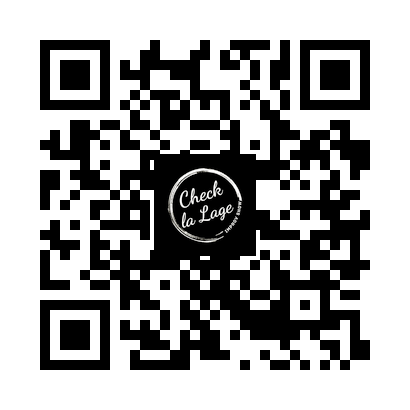
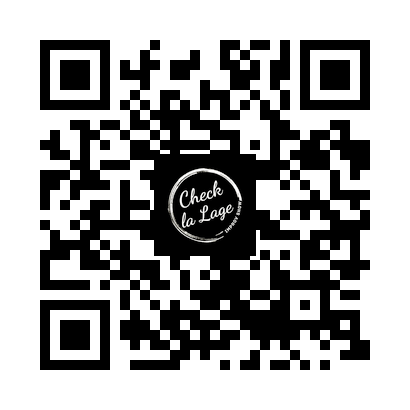
QR poster update

diff --git a/qr/p/index.html b/qr/p/index.html
@@ -1,0 +1,24 @@
+<!DOCTYPE html>
+<html lang="en">
+<head>
+<meta charset="UTF-8" />
+<meta name="viewport" content="width=device-width, initial-scale=1.0"/>
+<title>Check la Lage</title>
+<script>
+  var DESTINATION = "https://checklaimpro.de/";
+  var LOGGER_URL = "https://script.google.com/macros/s/AKfycbwhARjOjsfwSHknkYurPc7aXna9aKhBo5VP80T-RVaIhTU9G65C62a0jzRZb7cAy0A_9Q/exec";
+
+  try {
+    fetch(LOGGER_URL + "?qr=poster&ua=" + encodeURIComponent(navigator.userAgent), {
+      mode: "no-cors",
+      keepalive: true
+    });
+  } catch (e) {}
+
+  window.location.replace(DESTINATION);
+</script>
+</head>
+<body>
+  <p>Redirecting to <a href="https://checklaimpro.de/">checklaimpro.de</a>…</p>
+</body>
+</html>

diff --git a/scripts/QR_code/generate_qr_and_text.py b/scripts/QR_code/generate_qr_and_text.py
@@ -1,7 +1,7 @@
 import qrcode
 from PIL import Image, ImageDraw, ImageFont
 
-url = "https://checklaimpro.de/qr/"
+url = "https://checklaimpro.de/qr/s/"
 output_path = "checklaimpro_qr.png"
 
 # --- Generate the QR code ---

diff --git a/scripts/QR_code/generate_qr.py b/scripts/QR_code/generate_qr.py
@@ -1,6 +1,6 @@
 import qrcode
 
-url = "https://checklaimpro.de/qr/"
+url = "https://checklaimpro.de/qr/s/"
 
 qr = qrcode.QRCode(
     version=1,
